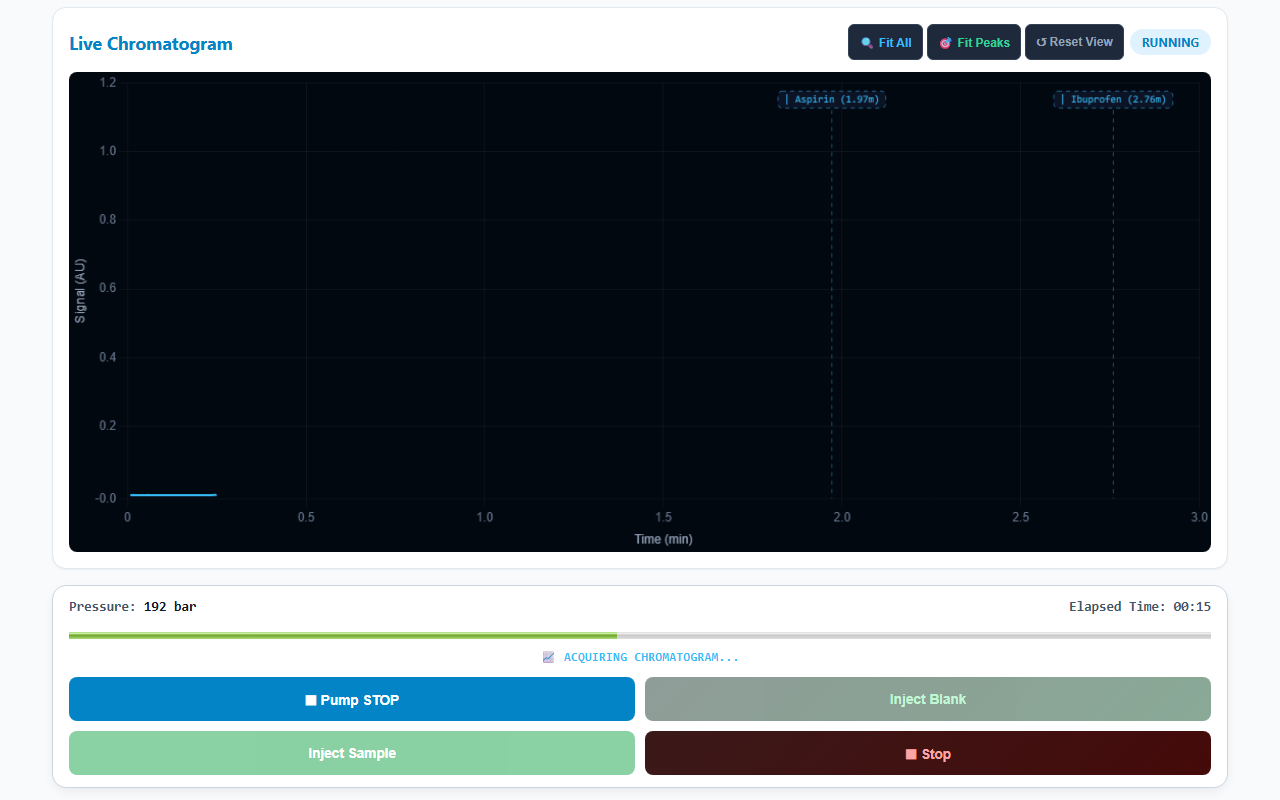
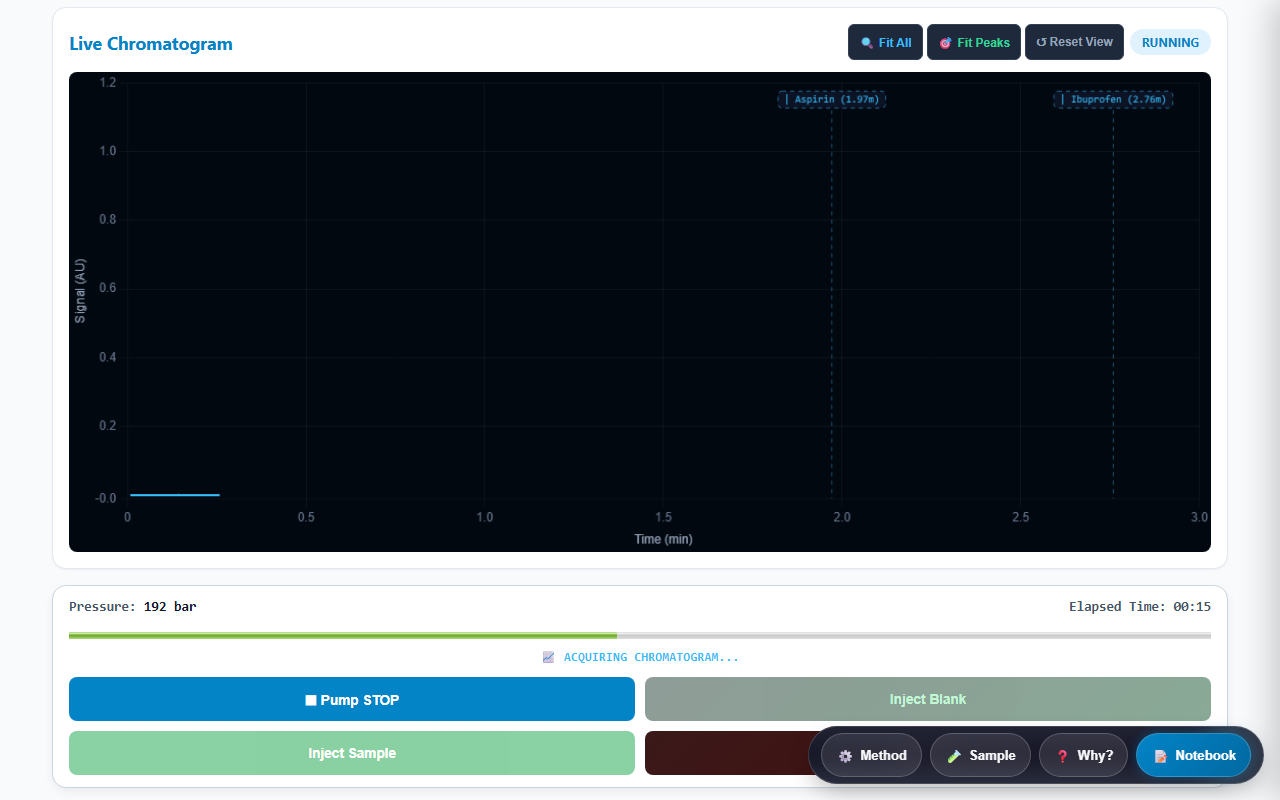
feat(ux): Complete Sprint E3 Progressive Disclosure with Context-Aware FAB & Slide-Over Drawers

Changed region(s): [[0.625, 0.0312, 1.0, 1.0]]

diff --git a/css/global.css b/css/global.css
@@ -697,12 +697,158 @@ input[type="range"]:focus-visible {
   font-family: var(--font-mono);
 }
 
-/* Replay strip animation */
-@keyframes fadeInUp {
-  from { opacity: 0; transform: translateY(8px); }
-  to   { opacity: 1; transform: translateY(0);   }
+/* ===== PROGRESSIVE DISCLOSURE: FLOATING DOCK & SLIDE-OVER DRAWERS ===== */
+.floating-quick-dock {
+  position: fixed;
+  bottom: 16px;
+  right: 16px;
+  display: flex;
+  align-items: center;
+  gap: 8px;
+  z-index: 900;
+  background: rgba(15, 23, 42, 0.85);
+  backdrop-filter: blur(12px);
+  -webkit-backdrop-filter: blur(12px);
+  border: 1px solid rgba(255, 255, 255, 0.15);
+  padding: 6px 12px;
+  border-radius: var(--radius-full);
+  box-shadow: 0 10px 25px -5px rgba(0, 0, 0, 0.3);
+  transition: all 0.25s cubic-bezier(0.16, 1, 0.3, 1);
 }
-.replay-strip-enter {
-  animation: fadeInUp 200ms ease forwards;
+
+.fab-btn {
+  display: inline-flex;
+  align-items: center;
+  gap: 6px;
+  height: 40px;
+  padding: 0 14px;
+  border-radius: var(--radius-full);
+  background: rgba(255, 255, 255, 0.1);
+  color: #f8fafc;
+  border: 1px solid rgba(255, 255, 255, 0.2);
+  font-size: 0.82rem;
+  font-weight: 600;
+  cursor: pointer;
+  white-space: nowrap;
+  transition: all 0.15s ease;
 }
+
+.fab-btn:hover {
+  background: var(--brand-primary);
+  color: #ffffff;
+  border-color: var(--brand-primary-hover);
+  transform: translateY(-1px);
+}
+
+.fab-btn:active {
+  transform: translateY(0) scale(0.96);
+}
+
+.fab-btn.highlight {
+  background: linear-gradient(135deg, #0284c7, #0369a1);
+  color: #ffffff;
+  box-shadow: 0 0 12px rgba(2, 132, 199, 0.4);
+}
+
+/* Slide-Over Off-Canvas Drawer */
+.drawer-backdrop {
+  position: fixed;
+  inset: 0;
+  background: rgba(15, 23, 42, 0.6);
+  backdrop-filter: blur(4px);
+  z-index: 1000;
+  opacity: 0;
+  visibility: hidden;
+  transition: opacity 0.25s ease, visibility 0.25s ease;
+}
+
+.drawer-backdrop.active {
+  opacity: 1;
+  visibility: visible;
+}
+
+.slide-over-drawer {
+  position: fixed;
+  top: 0;
+  right: 0;
+  bottom: 0;
+  width: 100%;
+  max-width: 540px;
+  background: var(--bg-surface);
+  box-shadow: -8px 0 32px rgba(0, 0, 0, 0.2);
+  z-index: 1001;
+  display: flex;
+  flex-direction: column;
+  transform: translateX(100%);
+  transition: transform 0.3s cubic-bezier(0.16, 1, 0.3, 1);
+}
+
+.slide-over-drawer.active {
+  transform: translateX(0);
+}
+
+.drawer-header {
+  padding: 16px 20px;
+  border-bottom: 1px solid var(--border-subtle);
+  display: flex;
+  align-items: center;
+  justify-content: space-between;
+  background: var(--bg-app);
+}
+
+.drawer-title {
+  margin: 0;
+  font-size: 1.05rem;
+  font-weight: 700;
+  color: var(--text-primary);
+  display: flex;
+  align-items: center;
+  gap: 8px;
+}
+
+.drawer-close-btn {
+  width: 36px;
+  height: 36px;
+  border-radius: var(--radius-full);
+  border: 1px solid var(--border-subtle);
+  background: var(--bg-surface);
+  color: var(--text-secondary);
+  font-size: 1.1rem;
+  cursor: pointer;
+  display: flex;
+  align-items: center;
+  justify-content: center;
+  transition: all 0.15s ease;
+}
+
+.drawer-close-btn:hover {
+  background: #fee2e2;
+  color: #dc2626;
+  border-color: #fca5a5;
+}
+
+.drawer-body {
+  padding: 20px;
+  overflow-y: auto;
+  flex: 1;
+}
+
+@media (max-width: 640px) {
+  .floating-quick-dock {
+    bottom: 72px;
+    left: 12px;
+    right: 12px;
+    justify-content: space-around;
+    padding: 6px 8px;
+  }
+  .fab-btn span.fab-label {
+    display: none;
+  }
+  .slide-over-drawer {
+    max-width: 100%;
+    border-radius: var(--radius-lg) var(--radius-lg) 0 0;
+    top: 60px;
+  }
+}
+
 

diff --git a/instruments/hplc/ui/UiCoordinator.js b/instruments/hplc/ui/UiCoordinator.js
@@ -17,6 +17,7 @@ export class UiCoordinator {
     this.views = views;
     this.bindEvents();
     this.bindWhyModal();
+    this.bindFloatingDockAndDrawers();
   }
 
   /** Centralized Event Subscriptions */
@@ -240,5 +241,79 @@ export class UiCoordinator {
     }
 
     overlay.style.display = 'flex';
+  }
+
+  /** Sprint E3: Bind Floating Quick Action Dock & Off-Canvas Drawers */
+  bindFloatingDockAndDrawers() {
+    const fabMethod = document.getElementById('fabMethodBtn');
+    const fabSample = document.getElementById('fabSampleBtn');
+    const fabWhy = document.getElementById('fabWhyBtn');
+    const fabNotebook = document.getElementById('fabNotebookBtn');
+    const drawer = document.getElementById('slideOverDrawer');
+    const backdrop = document.getElementById('drawerBackdrop');
+    const closeBtn = document.getElementById('closeDrawerBtn');
+
+    if (fabMethod) {
+      fabMethod.addEventListener('click', () => {
+        const methodTab = document.getElementById('tabBtn-method');
+        if (methodTab) methodTab.click();
+      });
+    }
+
+    if (fabSample) {
+      fabSample.addEventListener('click', () => {
+        const sampleTab = document.getElementById('tabBtn-sample');
+        if (sampleTab) sampleTab.click();
+      });
+    }
+
+    if (fabWhy) {
+      fabWhy.addEventListener('click', () => {
+        this.showWhyModal('flowRate');
+      });
+    }
+
+    if (fabNotebook) {
+      fabNotebook.addEventListener('click', () => {
+        const notebookContainer = document.getElementById('experiment-notebook-container');
+        if (notebookContainer) {
+          this.openDrawer('Experiment Notebook', '📝', notebookContainer);
+        } else {
+          const resultsTab = document.getElementById('tabBtn-results');
+          if (resultsTab) resultsTab.click();
+        }
+      });
+    }
+
+    const closeDrawer = () => {
+      if (drawer) drawer.classList.remove('active');
+      if (backdrop) backdrop.classList.remove('active');
+    };
+
+    if (closeBtn) closeBtn.addEventListener('click', closeDrawer);
+    if (backdrop) backdrop.addEventListener('click', closeDrawer);
+  }
+
+  openDrawer(title, icon, contentElement) {
+    const drawer = document.getElementById('slideOverDrawer');
+    const backdrop = document.getElementById('drawerBackdrop');
+    const titleText = document.getElementById('drawerTitleText');
+    const iconEl = document.getElementById('drawerIcon');
+    const drawerBody = document.getElementById('drawerBody');
+
+    if (!drawer || !backdrop || !drawerBody) return;
+
+    if (titleText) titleText.textContent = title;
+    if (iconEl) iconEl.textContent = icon;
+
+    // Temporarily mount content inside drawer if needed
+    drawerBody.innerHTML = '';
+    if (contentElement) {
+      const clone = contentElement.cloneNode(true);
+      drawerBody.appendChild(clone);
+    }
+
+    backdrop.classList.add('active');
+    drawer.classList.add('active');
   }
 }

diff --git a/instruments/hplc/index.html b/instruments/hplc/index.html
@@ -908,5 +908,34 @@
     </div>
   </div>
 
+  <!-- Sprint E3: Context-Aware Floating Action Dock (Progressive Disclosure) -->
+  <div id="floatingQuickDock" class="floating-quick-dock" role="toolbar" aria-label="Quick Action Shortcuts">
+    <button id="fabMethodBtn" class="fab-btn" aria-label="Open Method Tuning Drawer">
+      <span>⚙</span><span class="fab-label">Method</span>
+    </button>
+    <button id="fabSampleBtn" class="fab-btn" aria-label="Open Sample Selection Drawer">
+      <span>🧪</span><span class="fab-label">Sample</span>
+    </button>
+    <button id="fabWhyBtn" class="fab-btn" aria-label="Open Educational Explanation">
+      <span>❓</span><span class="fab-label">Why?</span>
+    </button>
+    <button id="fabNotebookBtn" class="fab-btn highlight" aria-label="Open Experiment Notebook Drawer">
+      <span>📝</span><span class="fab-label">Notebook</span>
+    </button>
+  </div>
+
+  <!-- Sprint E3: Slide-Over Off-Canvas Drawer -->
+  <div id="drawerBackdrop" class="drawer-backdrop" aria-hidden="true"></div>
+  <aside id="slideOverDrawer" class="slide-over-drawer" role="dialog" aria-modal="true" aria-labelledby="drawerTitle">
+    <div class="drawer-header">
+      <h3 id="drawerTitle" class="drawer-title">
+        <span id="drawerIcon">📝</span>
+        <span id="drawerTitleText">Experiment Notebook</span>
+      </h3>
+      <button id="closeDrawerBtn" class="drawer-close-btn" aria-label="Close drawer">✕</button>
+    </div>
+    <div id="drawerBody" class="drawer-body"></div>
+  </aside>
+
 </body>
 </html>
